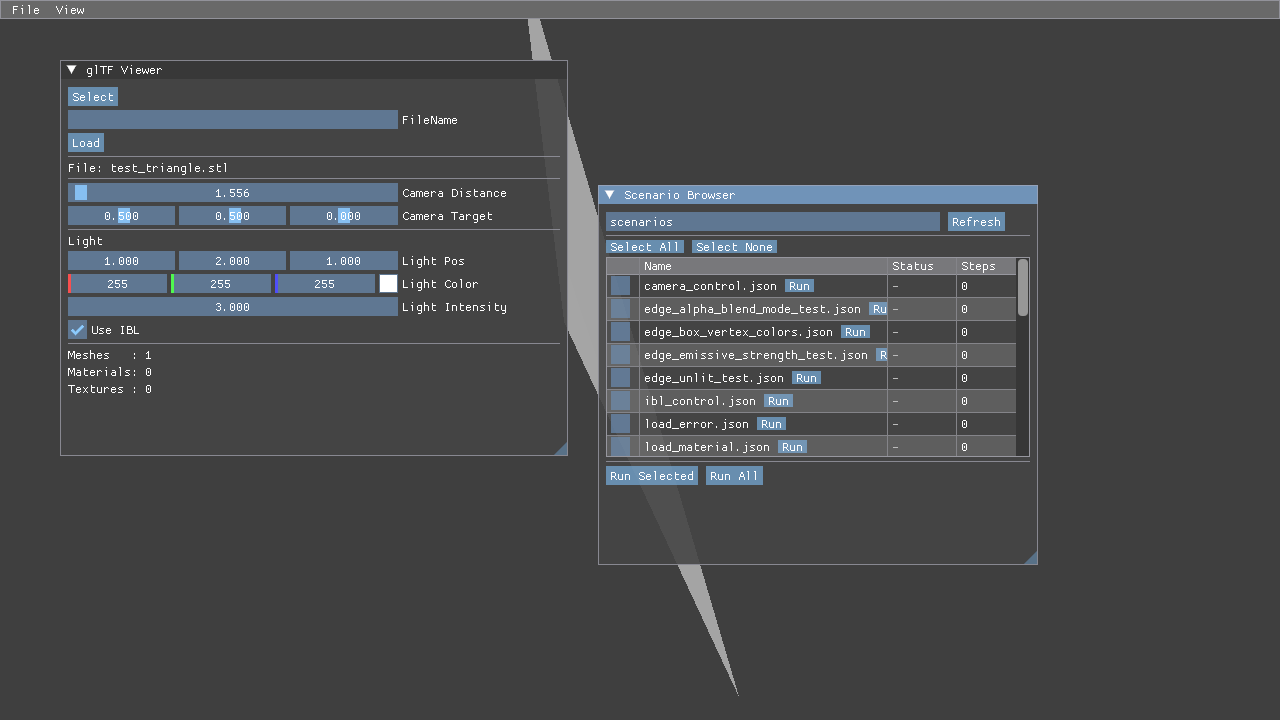
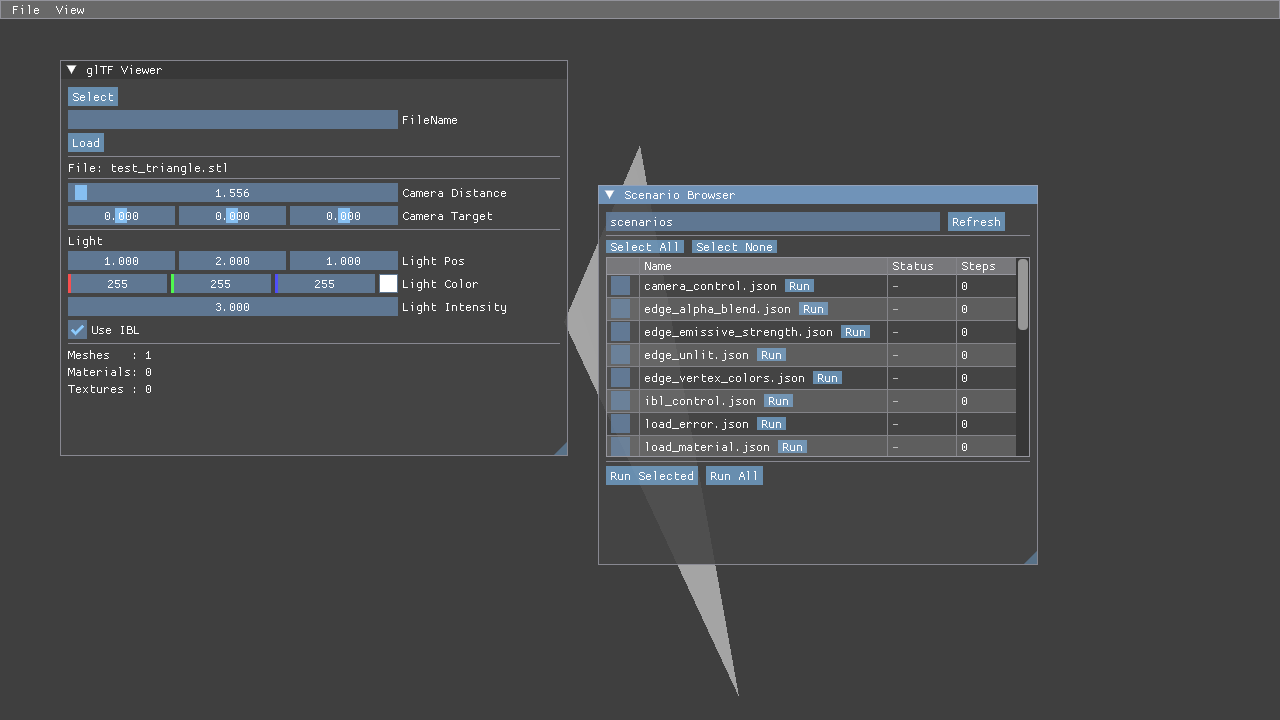
Scrub internal references from shipped files
- Replace internal design-doc paths in comments/CLAUDE.md/README with neutral
  wording ("internal design notes", "the project's coding conventions", etc.)
- Generalise references to non-public sibling apps (CGApp/CGStudio/Universe
  paths) in code comments
- load_obj_stl scenario: add synthetic test_quad.obj / test_triangle.stl
  (also emitted by gen_test_models.py) in place of non-public TestData inputs
- STL binary-writer test: use "Phantom" instead of "CGStudio" as the sample
  header string

diff --git a/GltfViewer/scenarios/models/gen_test_models.py b/GltfViewer/scenarios/models/gen_test_models.py
@@ -145,8 +145,7 @@ with open(os.path.join(OUT, "multi_mesh.gltf"), "w", encoding="utf-8") as f:
 print("multi_mesh.gltf  MeshCount=3 NodeCount=3 PrimitiveCount=3")
 
 # ---------------------------------------------------------------------------
-# Phase 4 (docs/todo/PLAN_scenario_test_synthetic_assets.md): synthetic
-# replacements for Khronos glTF-Sample-Assets models (DamagedHelmet/WaterBottle/
+# Synthetic replacements for Khronos glTF-Sample-Assets models (DamagedHelmet/WaterBottle/
 # AntiqueCamera/Avocado/Corset/Duck/CesiumMan/RiggedFigure/RiggedSimple/
 # MultiUVTest/NegativeScaleTest/NormalTangentTest/NormalTangentMirrorTest/
 # OrientationTest/TextureCoordinateTest/BoxVertexColors/AlphaBlendModeTest/
@@ -154,8 +153,6 @@ print("multi_mesh.gltf  MeshCount=3 NodeCount=3 PrimitiveCount=3")
 # *features* (PBR materials, UV sets, skinning, extensions), not to look
 # realistic, so procedural checkerboard/gradient/flat-normal PNG textures over
 # minimal geometry cover the same ground without any third-party asset.
-# Real-data versions of the 19 replaced scenarios still exist for reinforcement
-# testing under ThirdPartyScenarios/GltfViewer/ (non-public, root-repo-only).
 # ---------------------------------------------------------------------------
 import zlib
 
@@ -626,3 +623,34 @@ write_gltf("unlit.gltf", {
     "buffers": [buf.buffer_entry()],
 })
 print("unlit.gltf  MeshCount=1 MaterialCount=1 PrimitiveCount=1")
+
+# ---------------------------------------------------------------------------
+# test_quad.obj / test_triangle.stl -- tiny mesh-import smoke test inputs for
+# load_obj_stl.json (the OBJ->glTF and ASCII-STL->glTF converter paths).
+# ---------------------------------------------------------------------------
+with open(os.path.join(OUT, "test_quad.obj"), "w", encoding="utf-8", newline="\n") as f:
+    f.write(
+        "# Minimal synthetic quad for GltfViewer OBJ smoke test\n"
+        "v -0.5 -0.5 0.0\n"
+        "v 0.5 -0.5 0.0\n"
+        "v 0.5 0.5 0.0\n"
+        "v -0.5 0.5 0.0\n"
+        "vn 0.0 0.0 1.0\n"
+        "f 1//1 2//1 3//1\n"
+        "f 1//1 3//1 4//1\n"
+    )
+print("test_quad.obj  vertices=4 faces=2")
+
+with open(os.path.join(OUT, "test_triangle.stl"), "w", encoding="utf-8", newline="\n") as f:
+    f.write(
+        "solid triangle\n"
+        "  facet normal 0.0 0.0 1.0\n"
+        "    outer loop\n"
+        "      vertex -0.5 -0.5 0.0\n"
+        "      vertex 0.5 -0.5 0.0\n"
+        "      vertex 0.0 0.5 0.0\n"
+        "    endloop\n"
+        "  endfacet\n"
+        "endsolid triangle\n"
+    )
+print("test_triangle.stl  facets=1")

diff --git a/GltfRenderer/Gltf/ObjToGltfConverter.h b/GltfRenderer/Gltf/ObjToGltfConverter.h
@@ -7,14 +7,12 @@ namespace Phantom::Gltf {
 
 // Converts an already-parsed Phantom::File::OBJFile (see Phantom::File::OBJFileReader) into a
 // GltfDocument, so OBJ meshes can flow through the same GltfDocument-consuming code every glTF
-// asset already does (CGStudio's GltfImporter::extract(), GltfSceneRenderer::traverseNode()) --
-// see docs/todo/PLAN_obj_stl_gltfrenderer_shared_import.md. File I/O stays the caller's
+// asset already does (e.g. GltfSceneRenderer::traverseNode()). File I/O stays the caller's
 // responsibility (OBJFileReader::read()) so this converter is trivially unit-testable.
 class ObjToGltfConverter {
 public:
     // One GltfMesh (single GltfPrimitive) + GltfNode per non-empty OBJGroup, all parented under
-    // doc.scenes[0]. Each face is fan-triangulated (mirrors the old
-    // CGApp/CGStudio/MeshImporter.cpp::appendObjFace() logic); vertices are fully expanded (no
+    // doc.scenes[0]. Each face is fan-triangulated; vertices are fully expanded (no
     // sharing across triangles) with sequential indices, matching how OBJFace's separate
     // position/normal/texCoord index streams don't line up cleanly with a single shared vertex
     // buffer. A group name of "" is left as-is (glTF's own "unnamed mesh" convention) --

diff --git a/Space/Space/IndexedSortBasedSearcher.cpp b/Space/Space/IndexedSortBasedSearcher.cpp
@@ -41,7 +41,7 @@ namespace
 	// previous serial `pairs.insert()` per thread (which was O(total pairs)
 	// and entirely unparallelized -- a fixed cost dragging down search()'s
 	// scaling regardless of thread count, see
-	// docs/issue/wcsph_parallel_scaling_profile.md section 11.4/12.1). Each
+	// internal design notes section 11.4/12.1). Each
 	// thread's slice lands at the same [start, start+size) offset every run
 	// (computed purely from sizes), so the resulting order in `dst` is
 	// identical to what the old serial insert loop produced -- required
@@ -103,7 +103,7 @@ void IndexedSortBasedSearcher::search()
 	// Chunk count tracks the actual OpenMP thread count instead of a
 	// hardcoded "optimization for quad core" value -- the previous constant
 	// (8) silently capped this search's parallelism at 8 threads regardless
-	// of OMP_NUM_THREADS/hardware (docs/issue/wcsph_parallel_scaling_profile.md
+	// of OMP_NUM_THREADS/hardware (internal design notes
 	// section 6.1).
 #ifdef _OPENMP
 	const int threads = std::max(1, omp_get_max_threads());

diff --git a/GltfViewer/scenarios/models/gen_vrm_test_models.py b/GltfViewer/scenarios/models/gen_vrm_test_models.py
@@ -4,11 +4,8 @@ A VRM file is an ordinary glTF/glb document plus a root "extensions.VRM" (0.x) o
 "extensions.VRMC_vrm" (1.0) object carrying a humanoid bone map and named facial expressions
 (built from the document's own glTF morph targets) -- see CGLib/GltfRenderer/Vrm/VrmReader.h.
 No real character mesh/texture is needed to exercise that: a handful of empty "bone" nodes plus
-one small mesh with 2 morph targets is enough. This replaces the real-data samples
-(AliciaSolid_vrm-0.51 / Seed-san, the latter under a redistribution-restricted license) that used
-to back load_vrm0_sample.json / load_vrm1_sample.json -- see
-docs/todo/PLAN_scenario_test_synthetic_assets.md Phase 3. The real samples still exist for
-reinforcement testing under ThirdPartyScenarios/GltfViewer/ (non-public, root-repo-only).
+one small mesh with 2 morph targets is enough. This synthetic pair backs
+load_vrm0_sample.json / load_vrm1_sample.json without any third-party character asset.
 """
 import struct
 import base64

diff --git a/Volume/VolumeView/CommandDispatcher.cpp b/Volume/VolumeView/CommandDispatcher.cpp
@@ -129,7 +129,7 @@ std::vector<std::string> CommandDispatcher::collectResponses() {
 
 void CommandDispatcher::processQueue() {
     // If a pixel read is pending, check whether the result is available before processing
-    // any new commands from the input queue (mirrors CGApp/CGStudio/CommandDispatcher.cpp).
+    // any new commands from the input queue.
     if (pixelReadPending_) {
         uint8_t data[4];
         if (app_ && app_->pollPixelRead(data)) {
@@ -396,7 +396,7 @@ std::string CommandDispatcher::route(const std::string& cmd) {
         return cmdDeleteDense(id);
     }
 
-    // --- PBVR self-shadow (experimental, see docs/idea/pbvr.md) ---
+    // --- PBVR self-shadow (experimental, see internal design notes) ---
 
     if (parts[0] == "SetPBVRRenderMode" && parts.size() == 2) {
         if (!menuPanel_) return "Error:no menu panel";

diff --git a/GltfRenderer/Vrm/VrmExtensionParser.cpp b/GltfRenderer/Vrm/VrmExtensionParser.cpp
@@ -67,8 +67,8 @@ void parseBindsV0(const Json& binds, const GltfDocument& doc, std::vector<VrmMor
 VrmHumanoid VrmExtensionParser::parseHumanoid(const Json& vrmRoot, VrmSpecVersion ver) {
     VrmHumanoid humanoid;
     // Malformed/unexpected-shape VRM JSON degrades to an empty humanoid rather than throwing --
-    // matching UniverseSceneIO.cpp's "try/catch is the one allowed exception boundary, for
-    // external library input" convention (docs/guide/conventions.md).
+    // per the project's "try/catch is the one allowed exception boundary, for
+    // external library input" convention.
     try {
         if (!vrmRoot.is_object() || !vrmRoot.contains("humanoid")) return humanoid;
         const Json& humanBones = vrmRoot["humanoid"].value("humanBones", Json());

diff --git a/File/FileTest/STLBinaryFileWriterTest.cpp b/File/FileTest/STLBinaryFileWriterTest.cpp
@@ -71,7 +71,7 @@ TEST(STLBinaryFileWriterTest, TestWriteBinaryShortHeaderIsZeroPadded)
     // stream.write(header.c_str(), 80) unconditionally. Earlier tests never caught this since
     // they always padded the header to exactly 79 characters.
     STLFile stl;
-    stl.header = "CGStudio";
+    stl.header = "Phantom";
 
     STLFileWriter writer;
     std::stringstream ss;
@@ -79,8 +79,8 @@ TEST(STLBinaryFileWriterTest, TestWriteBinaryShortHeaderIsZeroPadded)
 
     const std::string data = ss.str();
     ASSERT_GE(data.size(), 80u);
-    EXPECT_EQ(0, data.compare(0, 8, "CGStudio"));
-    for (size_t i = 8; i < 80; ++i)
+    EXPECT_EQ(0, data.compare(0, 7, "Phantom"));
+    for (size_t i = 7; i < 80; ++i)
         EXPECT_EQ('\0', data[i]) << "byte " << i;
 }
 

diff --git a/GltfRenderer/Gltf/GltfMorphApply.h b/GltfRenderer/Gltf/GltfMorphApply.h
@@ -9,7 +9,7 @@ namespace Phantom::Gltf {
 // base + sum(weight[i] * targets[i]) per vertex, for one primitive's POSITION accessor and its
 // morph targets (see GltfMorphTarget in GltfTypes.h). weights shorter than prim.targets is
 // treated as zero-padded -- mirrors Phantom::Animation::MorphAnimator::applyMorphs()'s same
-// convention, just for Gltf-layer types (see docs/todo/PLAN_mmd_gltf_unification.md Phase 7).
+// convention, just for Gltf-layer types (see internal design notes Phase 7).
 // Returns an empty vector if the primitive has no POSITION accessor.
 std::vector<glm::vec3> applyMorphs(const GltfDocument& doc, const GltfPrimitive& prim,
                                     const std::vector<float>& weights);

diff --git a/GltfRenderer/GltfRendererTest/MmdToGltfConverterTest.cpp b/GltfRenderer/GltfRendererTest/MmdToGltfConverterTest.cpp
@@ -25,7 +25,7 @@ void writeText(std::ostream& s, const std::string& utf8) {
 // Hand-crafted minimal PMX 2.0 binary: encoding=UTF-8, all index sizes=1 byte, 2 bones
 // (Root -> Child, no IK), 2 vertices (BDEF1, one bound to each bone), 1 triangle, 1 material,
 // no textures, no morphs. Exercises PMXFileReader's full parse path (see PMXFileReader.cpp)
-// without needing a real downloaded MMD sample model (docs/todo/PLAN_mmd_gltf_unification.md
+// without needing a real downloaded MMD sample model (internal design notes
 // Phase 10 -- AnimationTest has no reusable PMX/VMD binary fixture to borrow).
 bool writeMinimalPmx(const std::filesystem::path& path) {
     std::ofstream f(path, std::ios::binary);

diff --git a/Animation/AnimationView/AnimationViewApp.h b/Animation/AnimationView/AnimationViewApp.h
@@ -20,7 +20,7 @@ namespace Phantom::Animation {
 // PMX(+VMD) skeletal animation viewer. Rendering is delegated entirely to
 // Phantom::Gltf::GltfSceneRenderer (the same renderer every other glTF-consuming app in this
 // repo uses) -- there is no MMD-specific rendering code left here (see
-// docs/todo/PLAN_mmd_gltf_unification.md Phase 8: MmdMeshRenderer/GpuSkinnedRenderer/
+// internal design notes Phase 8: MmdMeshRenderer/GpuSkinnedRenderer/
 // BoneWireRenderer/SkinnedMeshRenderer were all removed from this app; the underlying
 // Phantom::Animation::AnimationRenderer library they lived in has no other consumer left).
 class AnimationViewApp : public ::VKG::VkAppBase, public ::IScenarioHost {

diff --git a/GltfRenderer/Vrm/VrmMToonFallback.h b/GltfRenderer/Vrm/VrmMToonFallback.h
@@ -10,8 +10,8 @@ namespace Phantom::Gltf {
 // Best-effort MToon -> flat PBR flattening, applied to an already-built GltfDocument's materials
 // in place. No real toon shading (rim light, shading step, outline) is reproduced -- this mirrors
 // SkeletonGltfConverter's precedent of dropping MMD toon/sphere/edge shading for the same flat-PBR
-// renderer (GltfSceneRenderer). See docs/todo/PLAN_mmd_gltf_unification.md's Context section for
-// the same design call made there.
+// renderer (GltfSceneRenderer). The internal design notes record the same design call
+// made there.
 class VrmMToonFallback {
 public:
     // VRM 1.0's MToon ("VRMC_materials_mtoon") reuses the material's own standard glTF

diff --git a/Space/Space/KDTree.h b/Space/Space/KDTree.h
@@ -106,7 +106,7 @@ namespace Phantom {
 			// Flat, index-based node storage (contiguous std::vector<Node>) instead of a tree of
 			// individually heap-allocated Node objects: avoids pointer-chasing across scattered
 			// allocations during traversal, which profiling showed was the dominant cost of
-			// neighbor search (see docs/todo/PLAN_pointcloud_feature_gap_analysis.md). -1 means "no
+			// neighbor search (see internal design notes). -1 means "no
 			// child". `positions` doubles as the staging buffer (appended to by addPoint()) and the
 			// build()-time snapshot indexed by nodes: no virtual dispatch and no separate item
 			// storage, just a flat value copy.
